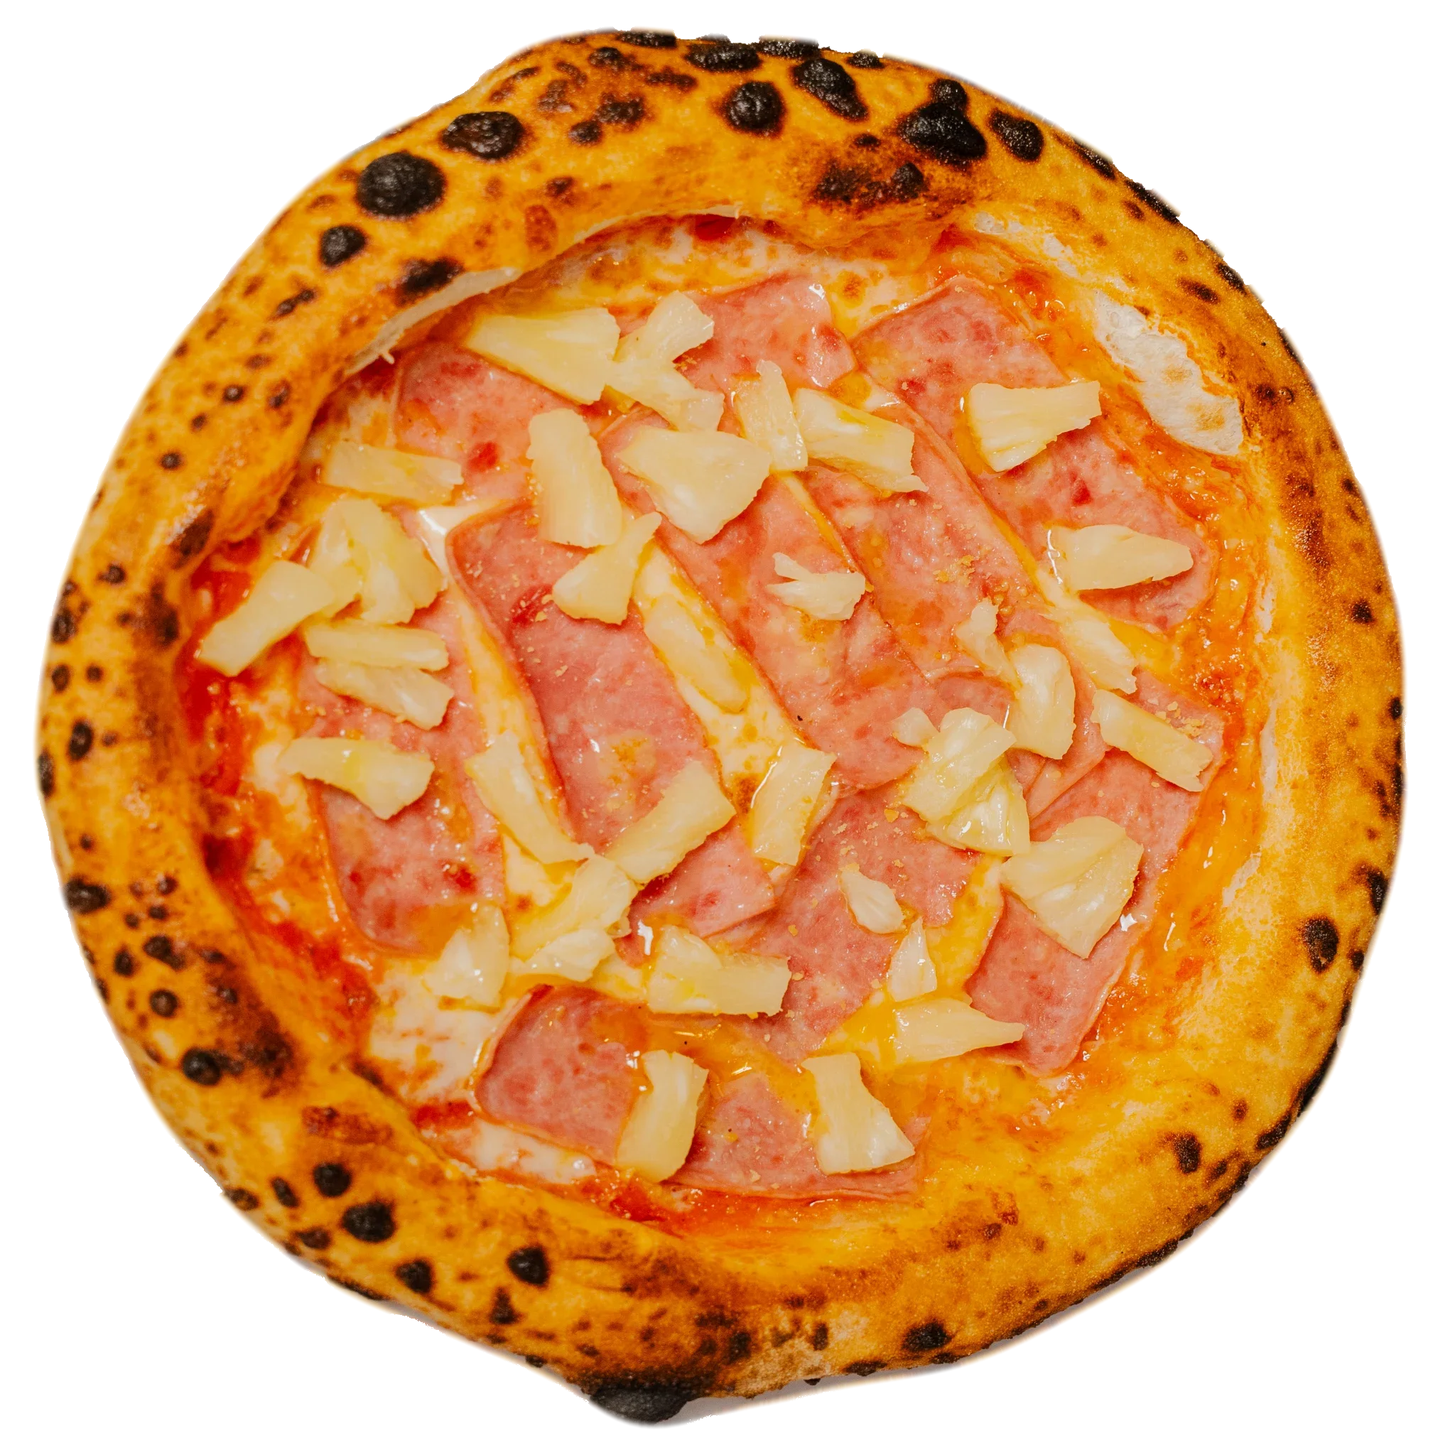
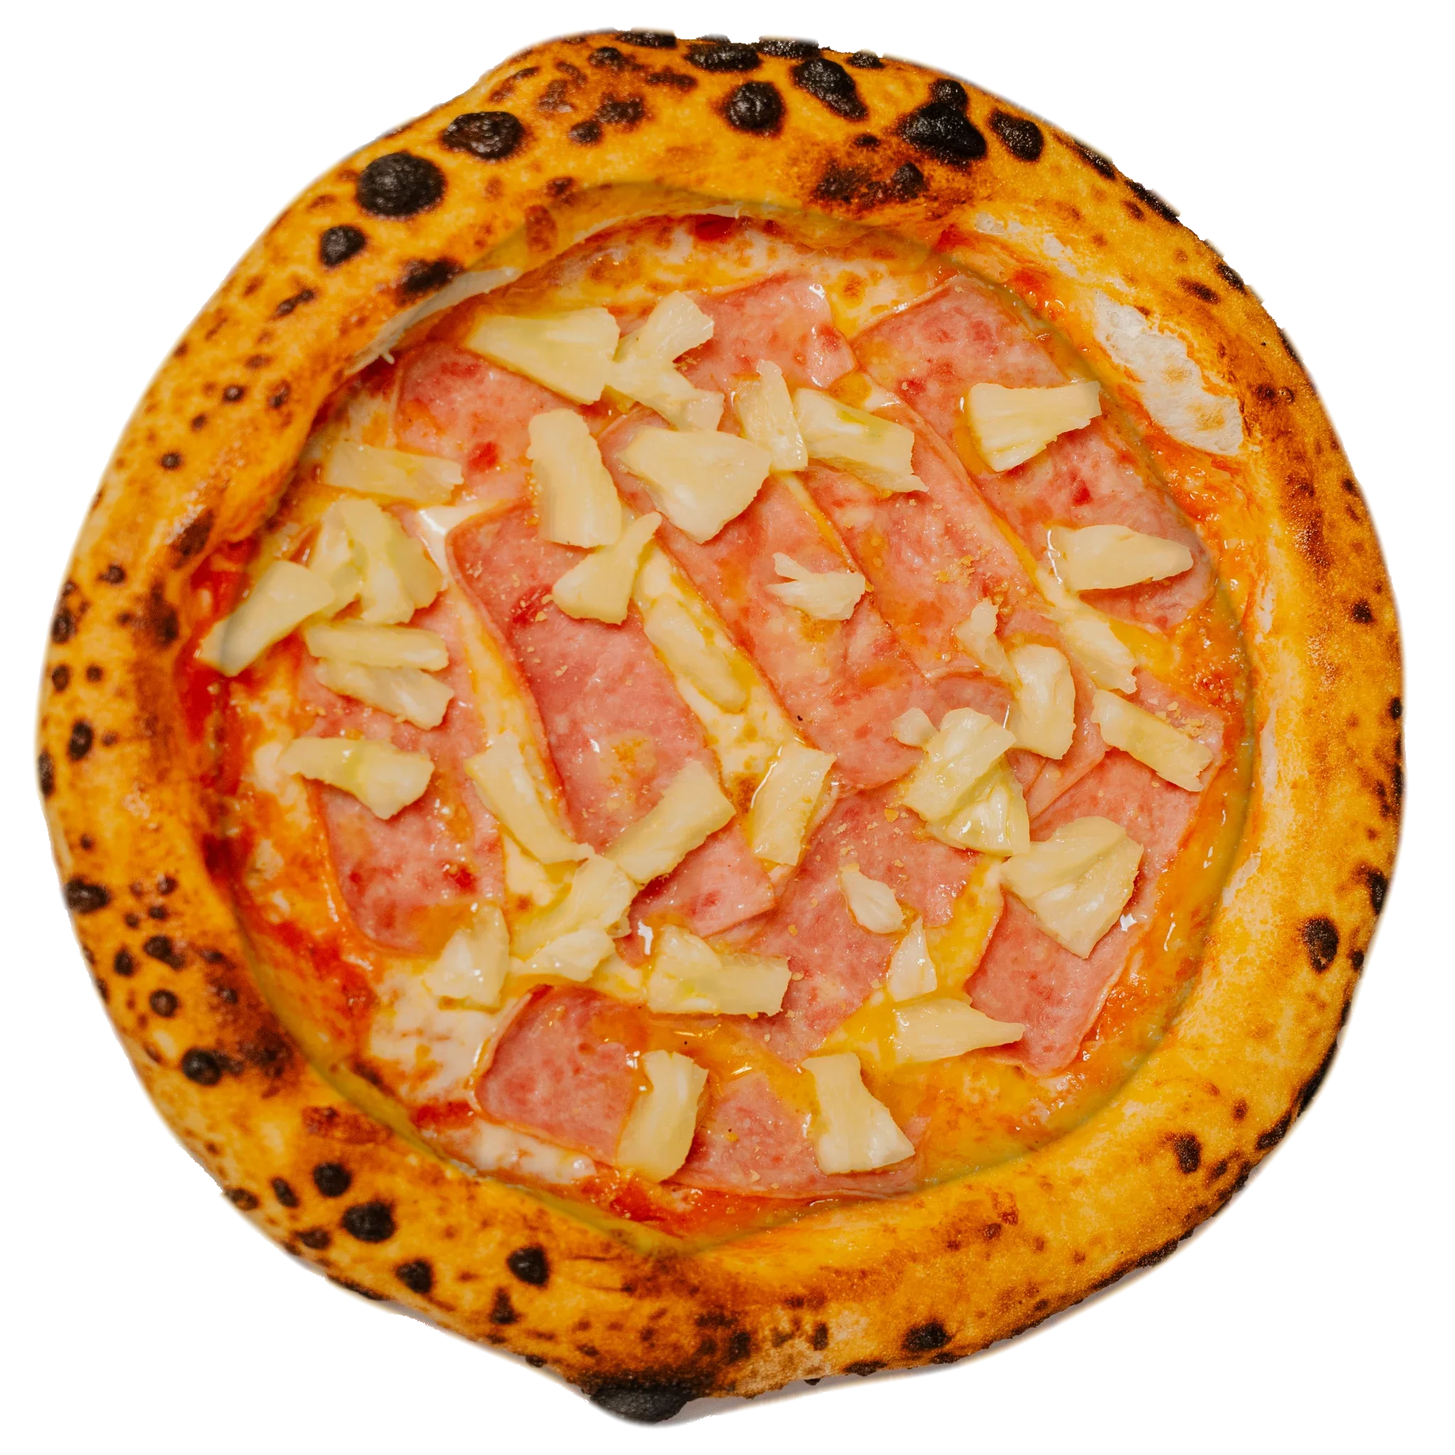
Concept turntable: less flat, instant first picture, lighter on phones
- Pizzas: taller crust with its texture spread up the crust wall (no smear),
  shiny cheese and sauce vs matte crust (roughness maps), shading baked into
  the gaps, stronger fine relief, a lower raking key light with a warm rim
  light, soft contact shadows under every dish, and a lower camera.
- Empanadas: smooth rounded shapes (no ribbing), softer colour.
- Loading: a still of the opening shot shows at once and the live 3D fades
  in over it; a small "Loading 3D" note instead of a black screen.
- Phones: minified three.js, the soft-focus effect code is no longer
  downloaded, 512 px height maps, simpler plate material and shadows.

Changed region(s): [[0.125, 0.125, 0.875, 0.7812], [0.2812, 0.7812, 0.7188, 0.875], [0.1875, 0.6875, 0.2812, 0.7812]]

diff --git a/concept/carousel.js b/concept/carousel.js
@@ -3,16 +3,12 @@
 // height maps (raised crust, burrata, arugula, toppings) built into the meshes. Everything else is made here.
 import * as THREE from 'three'
 import { RoomEnvironment } from 'three/addons/environments/RoomEnvironment.js'
-import { EffectComposer } from 'three/addons/postprocessing/EffectComposer.js'
-import { RenderPass } from 'three/addons/postprocessing/RenderPass.js'
-import { BokehPass } from 'three/addons/postprocessing/BokehPass.js'
-import { OutputPass } from 'three/addons/postprocessing/OutputPass.js'
 
 const canvas = document.getElementById('gl')
 const coarse = matchMedia('(pointer: coarse)').matches
-const small = coarse || Math.min(innerWidth, innerHeight) < 700
+const small = coarse || Math.min(innerWidth, innerHeight) < 700 || location.search.includes('phone') // ?phone forces the phone version for testing
 const Q = small
-  ? { tex: '-1k', nR: 96, nA: 256, grid: 150, shadow: 1024, dpr: Math.min(devicePixelRatio, 1.75), wood: 1024 }
+  ? { tex: '-1k', nR: 96, nA: 256, grid: 150, shadow: 1024, dpr: Math.min(devicePixelRatio, 1.6), wood: 1024 }
   : { tex: '', nR: 150, nA: 400, grid: 230, shadow: 2048, dpr: Math.min(devicePixelRatio, 2), wood: 2048 }
 
 const RING = 2.55 // dishes sit this far from the turntable's centre (1 unit = a pizza's radius, about 15 cm)
@@ -35,7 +31,7 @@ renderer.outputColorSpace = THREE.SRGBColorSpace
 renderer.toneMapping = THREE.NeutralToneMapping
 renderer.toneMappingExposure = 1.0
 renderer.shadowMap.enabled = true
-renderer.shadowMap.type = THREE.PCFSoftShadowMap
+renderer.shadowMap.type = small ? THREE.PCFShadowMap : THREE.PCFSoftShadowMap
 
 const scene = new THREE.Scene()
 const BG = 0x0d0907
@@ -43,18 +39,23 @@ scene.background = new THREE.Color(BG)
 scene.fog = new THREE.Fog(BG, 11, 26)
 const pmrem = new THREE.PMREMGenerator(renderer)
 scene.environment = pmrem.fromScene(new RoomEnvironment(), 0.04).texture
-scene.environmentIntensity = 0.32
+scene.environmentIntensity = 0.28
 
 const camera = new THREE.PerspectiveCamera(32, innerWidth / innerHeight, 0.1, 120)
 
-// a camera-like soft focus on bigger screens: sharp on the front dish, softer further away
+// a camera-like soft focus on bigger screens: sharp on the front dish, softer further away (loaded only there)
 let composer = null, bokeh = null
-if (!small) {
-  composer = new EffectComposer(renderer)
-  composer.addPass(new RenderPass(scene, camera))
-  bokeh = new BokehPass(scene, camera, { focus: 8, aperture: 0.0016, maxblur: 0.0055 })
-  composer.addPass(bokeh)
-  composer.addPass(new OutputPass())
+async function softFocus() {
+  if (small) return
+  const [{ EffectComposer }, { RenderPass }, { BokehPass }, { OutputPass }] = await Promise.all([
+    import('three/addons/postprocessing/EffectComposer.js'), import('three/addons/postprocessing/RenderPass.js'),
+    import('three/addons/postprocessing/BokehPass.js'), import('three/addons/postprocessing/OutputPass.js')])
+  const c = new EffectComposer(renderer)
+  c.addPass(new RenderPass(scene, camera))
+  bokeh = new BokehPass(scene, camera, { focus: 8, aperture: 0.0014, maxblur: 0.005 })
+  c.addPass(bokeh)
+  c.addPass(new OutputPass())
+  composer = c
 }
 
 // ---------- loading ----------
@@ -102,6 +103,24 @@ function pizzaGeometry(h, hmax) {
       uv[q++] = u; uv[q++] = 1 - v
     }
   }
+  // seen from above, the steep outside of the crust gets almost no photo; give it texture in proportion to its surface
+  const radius = (k) => Math.hypot(pos[k * 3], pos[k * 3 + 2])
+  for (let j = 0; j <= nA; j++) {
+    let peak = -1, top = -1
+    for (let i = 0; i <= nR; i++) { const k = i * cols + j; if (radius(k) > 0.75 && pos[k * 3 + 1] > top) { top = pos[k * 3 + 1]; peak = i } }
+    let edge = peak; while (edge < nR && pos[(edge * cols + j) * 3 + 1] > 0.004) edge++
+    if (peak < 0 || edge - peak < 2) continue
+    const L = [0]
+    for (let i = peak + 1; i <= edge; i++) {
+      const a = (i - 1) * cols + j, b = i * cols + j
+      L.push(L[L.length - 1] + Math.hypot(radius(b) - radius(a), pos[b * 3 + 1] - pos[a * 3 + 1]))
+    }
+    const r0 = radius(peak * cols + j), r1 = radius(edge * cols + j), ang = (j / nA) * Math.PI * 2
+    for (let i = peak + 1; i <= edge; i++) {
+      const ruv = r0 + (r1 - r0) * (L[i - peak] / L[L.length - 1]), k = (i * cols + j) * 2
+      uv[k] = (Math.cos(ang) * ruv / MARGIN + 1) / 2; uv[k + 1] = 1 - (Math.sin(ang) * ruv / MARGIN + 1) / 2
+    }
+  }
   for (let i = 0; i < nR; i++) for (let j = 0; j < nA; j++) { const a = i * cols + j, b = a + cols; idx.push(a, a + 1, b, b, a + 1, b + 1) }
   const g = new THREE.BufferGeometry()
   g.setAttribute('position', new THREE.BufferAttribute(pos, 3))
@@ -143,7 +162,21 @@ const plateGeometry = (() => { // white plate, lathed: flat well, low rim, rolle
     [1.117, 0.066], [1.097, 0.062], [1.06, 0.036], [1.03, 0.006], [1.0, 0.0], [0, 0.0]]
   return new THREE.LatheGeometry(pts.map(([x, y]) => new THREE.Vector2(x, y)), 128)
 })()
-const plateMat = new THREE.MeshPhysicalMaterial({ color: 0xf3efe8, roughness: 0.3, clearcoat: 1, clearcoatRoughness: 0.08, side: THREE.DoubleSide })
+const plateMat = small
+  ? new THREE.MeshStandardMaterial({ color: 0xf3efe8, roughness: 0.22, side: THREE.DoubleSide })
+  : new THREE.MeshPhysicalMaterial({ color: 0xf3efe8, roughness: 0.3, clearcoat: 1, clearcoatRoughness: 0.08, side: THREE.DoubleSide })
+const contact = (() => { // a soft dark patch under each dish, where the light can't reach
+  const c = document.createElement('canvas'); c.width = c.height = 256
+  const g = c.getContext('2d'), grd = g.createRadialGradient(128, 128, 0, 128, 128, 128)
+  grd.addColorStop(0, 'rgba(0,0,0,0.62)'); grd.addColorStop(0.55, 'rgba(0,0,0,0.42)'); grd.addColorStop(0.8, 'rgba(0,0,0,0.12)'); grd.addColorStop(1, 'rgba(0,0,0,0)')
+  g.fillStyle = grd; g.fillRect(0, 0, 256, 256)
+  return new THREE.MeshBasicMaterial({ map: new THREE.CanvasTexture(c), transparent: true, depthWrite: false })
+})()
+function contactShadow(w, d) {
+  const m = new THREE.Mesh(new THREE.PlaneGeometry(w, d), contact)
+  m.rotation.x = -Math.PI / 2; m.position.y = 0.004; m.renderOrder = 1
+  return m
+}
 
 function alphaDepth(map) {
   return new THREE.MeshDepthMaterial({ depthPacking: THREE.RGBADepthPacking, map, alphaTest: 0.5 })
@@ -180,7 +213,7 @@ async function woodTexture() {
 // ---------- scene ----------
 const table = new THREE.Group() // the turntable and everything on it; turned by scrolling
 scene.add(table)
-const lights = { key: new THREE.SpotLight(0xffe6cc, 3.4, 0, Math.PI / 6.2, 0.9, 0) }
+const lights = { key: new THREE.SpotLight(0xffe6cc, 4.3, 0, Math.PI / 6.5, 0.75, 0) }
 
 async function build() {
   const meta = await (await fetch(`${A}meta.json`)).json()
@@ -210,18 +243,23 @@ async function build() {
     dish.rotation.y = a
     const color = tex(`${A}${name}-color${Q.tex}.webp`)
     if (name === 'empanadas') {
-      const mat = new THREE.MeshStandardMaterial({ map: color, roughness: 0.66, alphaTest: 0.5, side: THREE.DoubleSide })
+      const mat = new THREE.MeshStandardMaterial({ map: color, normalMap: tex(`${A}${name}-normal${Q.tex}.webp`, false),
+        roughnessMap: tex(`${A}${name}-orm${Q.tex}.webp`, false), roughness: 1, alphaTest: 0.5, side: THREE.DoubleSide })
+      mat.normalScale.set(0.8, 0.8)
+      dish.add(contactShadow(2.5, 1.9))
       const basket = new THREE.Mesh(gridGeometry(hs[i], meta[name].hmax, 2.15), mat)
       basket.castShadow = basket.receiveShadow = true
       basket.customDepthMaterial = alphaDepth(color)
       dish.add(basket)
     } else {
+      dish.add(contactShadow(2.9, 2.9))
       const plate = new THREE.Mesh(plateGeometry, plateMat)
       plate.castShadow = plate.receiveShadow = true
       plate.position.y = 0.075
       dish.add(plate)
-      const mat = new THREE.MeshStandardMaterial({ map: color, normalMap: tex(`${A}${name}-normal${Q.tex}.webp`, false), roughness: 0.58, alphaTest: 0.5 })
-      mat.normalScale.set(0.9, 0.9)
+      const mat = new THREE.MeshStandardMaterial({ map: color, normalMap: tex(`${A}${name}-normal${Q.tex}.webp`, false),
+        roughnessMap: tex(`${A}${name}-orm${Q.tex}.webp`, false), roughness: 1, alphaTest: 0.5 })
+      mat.normalScale.set(0.95, 0.95)
       const pizza = new THREE.Mesh(pizzaGeometry(hs[i], meta[name].hmax), mat)
       pizza.castShadow = pizza.receiveShadow = true
       pizza.customDepthMaterial = alphaDepth(color)
@@ -232,15 +270,15 @@ async function build() {
   })
 
   // light: a warm spot on the front dish, a soft fill, a warm back light for the crust edges
-  scene.add(new THREE.HemisphereLight(0xffe4c8, 0x24170f, 0.5))
+  scene.add(new THREE.HemisphereLight(0xffe4c8, 0x24170f, 0.3))
   const key = lights.key
   key.castShadow = true
   key.shadow.mapSize.set(Q.shadow, Q.shadow)
-  key.shadow.bias = -0.00015; key.shadow.normalBias = 0.02
-  key.shadow.camera.near = 3; key.shadow.camera.far = 24
+  key.shadow.bias = -0.0002; key.shadow.normalBias = 0.025
+  key.shadow.camera.near = 2; key.shadow.camera.far = 26
   scene.add(key, key.target)
-  const back = new THREE.DirectionalLight(0xffc690, 1.1); back.position.set(2.5, 4, -7); scene.add(back)
-  const side = new THREE.DirectionalLight(0xffdcc0, 0.35); side.position.set(7, 3, 4); scene.add(side)
+  const back = new THREE.DirectionalLight(0xffc28a, 1.7); back.position.set(3, 3.2, -6); scene.add(back)
+  const side = new THREE.DirectionalLight(0xffdcc0, 0.25); side.position.set(6, 2.5, 3); scene.add(side)
 }
 
 // ---------- scroll story ----------
@@ -267,8 +305,8 @@ const lerp = (a, b, t) => a + (b - a) * t
 const ease = (t) => t * t * (3 - 2 * t)
 function shot(s, portrait) {
   // where the camera looks and how much it shows, per stop; in between it blends
-  const hero = portrait ? { tx: 0, tz: RING + 0.55, el: 48, w: 2.4, h: 2.2 } : { tx: -0.8, tz: RING + 0.05, el: 41, w: 4.6, h: 2.7 }
-  const item = portrait ? { tx: 0, tz: RING + 0.7, el: 54, w: 2.7, h: 2.6 } : { tx: -1.05, tz: RING - 0.1, el: 50, w: 4.6, h: 2.95 }
+  const hero = portrait ? { tx: 0, tz: RING + 0.5, el: 40, w: 2.45, h: 2.15 } : { tx: -0.8, tz: RING + 0.05, el: 34, w: 4.4, h: 2.55 }
+  const item = portrait ? { tx: 0, tz: RING + 0.62, el: 46, w: 2.7, h: 2.55 } : { tx: -1.05, tz: RING - 0.05, el: 40, w: 4.5, h: 2.8 }
   const over = portrait ? { tx: 0, tz: 0.9, el: 78, w: 8.6, h: 8.6 } : { tx: -1.6, tz: 0, el: 70, w: 11.5, h: 8.9 }
   let a, b, t
   if (s < 0) { a = hero; b = item; t = ease(s + 1) } else if (s > 4) { a = item; b = over; t = ease(s - 4) } else { a = b = item; t = 0 }
@@ -278,14 +316,15 @@ function shot(s, portrait) {
 }
 
 const clock = new THREE.Clock()
-function frame() {
-  const dt = Math.min(0.05, clock.getDelta()), time = clock.elapsedTime
+let still = null // { w, h } while rendering the opening still (see __table.poster)
+function draw() {
+  const dt = Math.min(0.05, clock.getDelta()), time = still ? 0 : clock.elapsedTime
   sNow += (sGoal - sNow) * (1 - Math.exp(-dt * 5.5))
   const s = sNow
 
   table.rotation.y = -Math.min(LAST, Math.max(0, s)) * STEP
 
-  const aspect = innerWidth / innerHeight, portrait = aspect < 0.9
+  const aspect = still ? still.w / still.h : innerWidth / innerHeight, portrait = aspect < 0.9
   camera.fov = portrait ? 44 : 32
   camera.aspect = aspect
   const sh = shot(s, portrait)
@@ -300,10 +339,10 @@ function frame() {
 
   // the key light follows from the front dish to the whole table
   const o = Math.max(0, Math.min(1, s - 4))
-  lights.key.position.set(lerp(-2.2, -3, o), lerp(9.5, 14, o), lerp(RING + 4.2, 6, o))
-  lights.key.target.position.set(0, 0, lerp(RING - 0.2, 0, o))
-  lights.key.angle = lerp(Math.PI / 6.2, Math.PI / 4.2, o)
-  lights.key.intensity = lerp(3.4, 2.9, o)
+  lights.key.position.set(lerp(-4.0, -3, o), lerp(5.2, 14, o), lerp(RING + 3.6, 6, o))
+  lights.key.target.position.set(0, 0, lerp(RING - 0.1, 0, o))
+  lights.key.angle = lerp(Math.PI / 6.5, Math.PI / 4.2, o)
+  lights.key.intensity = lerp(4.3, 3.2, o)
 
   // captions
   for (const c of caps) {
@@ -316,12 +355,26 @@ function frame() {
   dots.forEach((d, i) => d.classList.toggle('on', i === active && s > -0.5 && s < 4.5))
   document.documentElement.style.setProperty('--hint', Math.max(0, 1 - (s + 1) * 4).toFixed(3))
 
-  if (composer) {
+  if (composer && !(still && !still.focus)) {
     bokeh.uniforms.focus.value = camera.position.distanceTo(new THREE.Vector3(0, 0.1, lerp(RING, 0, o)))
     bokeh.uniforms.aperture.value = lerp(0.0016, 0.0004, o)
     composer.render()
   } else renderer.render(scene, camera)
-  requestAnimationFrame(frame)
+}
+function loop() { draw(); requestAnimationFrame(loop) }
+
+// the opening shot as a still image at an exact size (used once to make assets/poster-*.webp; posts it to a local helper)
+async function poster(w, h, name, focus = true, url = 'http://localhost:3999/save') {
+  const keep = { pr: renderer.getPixelRatio(), s: sNow }
+  still = { w, h, focus }; sGoal = sNow = FIRST
+  renderer.setPixelRatio(1); renderer.setSize(w, h, false); if (composer) composer.setSize(w, h)
+  draw()
+  const done = new Promise((r) => canvas.toBlob(r, 'image/png')) // captures the canvas as it is right now
+  still = null; sGoal = sNow = keep.s
+  renderer.setPixelRatio(keep.pr); resize()
+  const blob = await done
+  const res = await fetch(`${url}?name=${encodeURIComponent(name)}`, { method: 'POST', body: blob })
+  return `${name}: ${blob.size} bytes, ${res.status}`
 }
 
 function resize() {
@@ -331,12 +384,12 @@ function resize() {
 addEventListener('resize', resize)
 addEventListener('scroll', () => { sGoal = targetStop() }, { passive: true })
 
-build().then(async () => {
+Promise.all([build(), softFocus().catch(() => {})]).then(async () => {
   sGoal = sNow = targetStop()
   await texturesDone // show the table only once every photo is on it
   // compile the shaders before showing anything, but never wait more than 2 s for it (it can stall in some browsers)
   try { await Promise.race([renderer.compileAsync(scene, camera), new Promise((r) => setTimeout(r, 2000))]) } catch (e) { /* compiles on the first frame */ }
-  frame()
+  loop()
   setTimeout(() => document.documentElement.classList.add('ready'), 60)
 }).catch((e) => {
   console.error(e)
@@ -344,4 +397,4 @@ build().then(async () => {
 })
 
 // for checking single moments in the console: __table.snap(2) shows the prosciutto
-window.__table = { snap: (s) => { sGoal = sNow = s }, release: () => { sGoal = targetStop() }, renderer, scene, camera }
+window.__table = { snap: (s) => { sGoal = sNow = s }, release: () => { sGoal = targetStop() }, poster, renderer, scene, camera, small, Q }

diff --git a/concept/index.html b/concept/index.html
@@ -21,10 +21,12 @@
 <link rel="preconnect" href="https://fonts.googleapis.com">
 <link rel="preconnect" href="https://fonts.gstatic.com" crossorigin>
 <link href="https://fonts.googleapis.com/css2?family=Cinzel:wght@500;600;700&family=Cormorant+Garamond:ital,wght@0,400;1,400;1,500&family=DM+Sans:opsz,wght@9..40,300;9..40,400;9..40,500&display=swap" rel="stylesheet">
-<link rel="modulepreload" href="carousel.js">
+<link rel="modulepreload" href="carousel.js?v=4">
+<link rel="preload" as="image" href="assets/poster-d.webp" media="(min-aspect-ratio: 9/10)">
+<link rel="preload" as="image" href="assets/poster-m.webp" media="(max-aspect-ratio: 9/10)">
 <script type="importmap">
 { "imports": {
-  "three": "https://cdn.jsdelivr.net/npm/three@0.170.0/build/three.module.js",
+  "three": "https://cdn.jsdelivr.net/npm/three@0.170.0/build/three.module.min.js",
   "three/addons/": "https://cdn.jsdelivr.net/npm/three@0.170.0/examples/jsm/"
 } }
 </script>
@@ -38,7 +40,9 @@
   body { background: var(--night); color: var(--text); font-family: 'DM Sans', system-ui, sans-serif; -webkit-font-smoothing: antialiased; overflow-x: hidden; }
   a { color: inherit; }
 
-  #gl { position: fixed; inset: 0; width: 100vw; height: 100vh; height: 100lvh; display: block; opacity: 0; transition: opacity 1.4s ease; }
+  #poster { position: fixed; inset: 0; width: 100vw; height: 100vh; height: 100lvh; background: var(--night) url(assets/poster-d.webp) 50% 50% / cover no-repeat; transition: opacity 1.2s ease .3s; }
+  .ready #poster { opacity: 0; }
+  #gl { position: fixed; inset: 0; width: 100vw; height: 100vh; height: 100lvh; display: block; opacity: 0; transition: opacity 1.2s ease; }
   .ready #gl { opacity: 1; }
   /* soft darkening at the edges and behind the words */
   .shade { position: fixed; inset: 0; pointer-events: none; background:
@@ -60,6 +64,7 @@
 
   .cap { position: fixed; z-index: 4; left: clamp(20px, 6vw, 96px); top: 50%; translate: 0 -50%; width: min(440px, 40vw);
     opacity: 0; visibility: hidden; will-change: opacity, transform; }
+  html:not(.ready) .cap[data-s="-1"] { opacity: 1; visibility: visible; }
   .eyebrow { font-size: 12px; letter-spacing: .32em; text-transform: uppercase; color: var(--gold); margin-bottom: 16px; display: flex; align-items: center; gap: 12px; }
   .eyebrow::before { content: ''; width: 34px; height: 1px; background: var(--gold); opacity: .7; }
   .cap h1, .cap h2 { font-family: 'Cinzel', serif; font-weight: 600; color: var(--bright); line-height: 1.04; letter-spacing: .02em; }
@@ -90,15 +95,18 @@
   .dots button:hover, .dots button:focus-visible { color: var(--text); }
   .dots button:focus-visible::after { outline: 2px solid var(--gold); outline-offset: 3px; }
 
-  #loader { position: fixed; z-index: 6; inset: 0; display: grid; place-items: center; background: var(--night); transition: opacity .9s ease .2s, visibility 0s 1.1s; }
+  #loader { position: fixed; z-index: 6; left: 50%; bottom: max(70px, calc(env(safe-area-inset-bottom) + 56px)); translate: -50% 0; pointer-events: none;
+    transition: opacity .6s ease, visibility 0s .7s; }
   #loader div { text-align: center; }
-  #loader p { font-family: 'Cormorant Garamond', serif; font-style: italic; font-size: 22px; color: var(--gold); margin-bottom: 16px; }
-  #loader span { display: block; width: 160px; height: 1px; background: rgba(212,165,116,.2); margin: 0 auto; overflow: hidden; }
+  #loader p { font-size: 11px; letter-spacing: .28em; text-transform: uppercase; color: var(--dim); margin-bottom: 10px; }
+  #loader span { display: block; width: 120px; height: 1px; background: rgba(212,165,116,.2); margin: 0 auto; overflow: hidden; }
   #loader i { display: block; height: 100%; background: var(--gold); transform: scaleX(0); transform-origin: left; transition: transform .3s; }
   .ready #loader { opacity: 0; visibility: hidden; }
 
   /* phones: words at the bottom, the dish above them */
   @media (max-aspect-ratio: 9/10) {
+    #poster { background-image: url(assets/poster-m.webp); }
+    #loader { bottom: auto; top: 46%; }
     .shade { background: radial-gradient(130% 80% at 50% 38%, transparent 45%, rgba(8,5,3,.42) 100%),
       linear-gradient(0deg, rgba(10,7,5,.9) 0%, rgba(10,7,5,.55) 30%, transparent 50%); }
     .cap { left: 20px; right: 20px; width: auto; top: auto; bottom: max(30px, calc(env(safe-area-inset-bottom) + 18px)); translate: 0 0; text-align: left; }
@@ -114,7 +122,7 @@
 
   /* no 3D: the photos in a simple list */
   .fallback { display: none; }
-  .no-gl #gl, .no-gl .cap, .no-gl .dots, .no-gl .hint, .no-gl #loader, .no-gl .shade { display: none !important; }
+  .no-gl #gl, .no-gl #poster, .no-gl .cap, .no-gl .dots, .no-gl .hint, .no-gl #loader, .no-gl .shade { display: none !important; }
   .no-gl #scroll { height: auto; }
   .no-gl .fallback { display: block; padding: 110px 20px 60px; max-width: 760px; margin: 0 auto; }
   .fallback h1 { font-family: 'Cinzel', serif; color: var(--bright); font-size: 40px; margin-bottom: 30px; }
@@ -125,6 +133,7 @@
 </style>
 </head>
 <body>
+<div id="poster" aria-hidden="true"></div>
 <canvas id="gl" aria-label="A wooden turntable with five Che Bar dishes. Scroll to turn it."></canvas>
 <div class="shade"></div>
 <div class="grain"></div>
@@ -134,7 +143,7 @@
   <a class="reserve" href="/reserve/">Reserve</a>
 </header>
 
-<div id="loader" aria-hidden="true"><div><p>Setting the table…</p><span><i></i></span></div></div>
+<div id="loader" aria-hidden="true"><div><p>Loading 3D</p><span><i></i></span></div></div>
 
 <div id="scroll">
   <section class="cap" data-s="-1">
@@ -213,6 +222,6 @@
   // no WebGL at all: show the photo list straight away
   (function () { try { var c = document.createElement('canvas'); if (!(c.getContext('webgl2') || c.getContext('webgl'))) throw 0 } catch (e) { document.documentElement.classList.add('no-gl') } })()
 </script>
-<script type="module" src="carousel.js"></script>
+<script type="module" src="carousel.js?v=4"></script>
 </body>
 </html>
